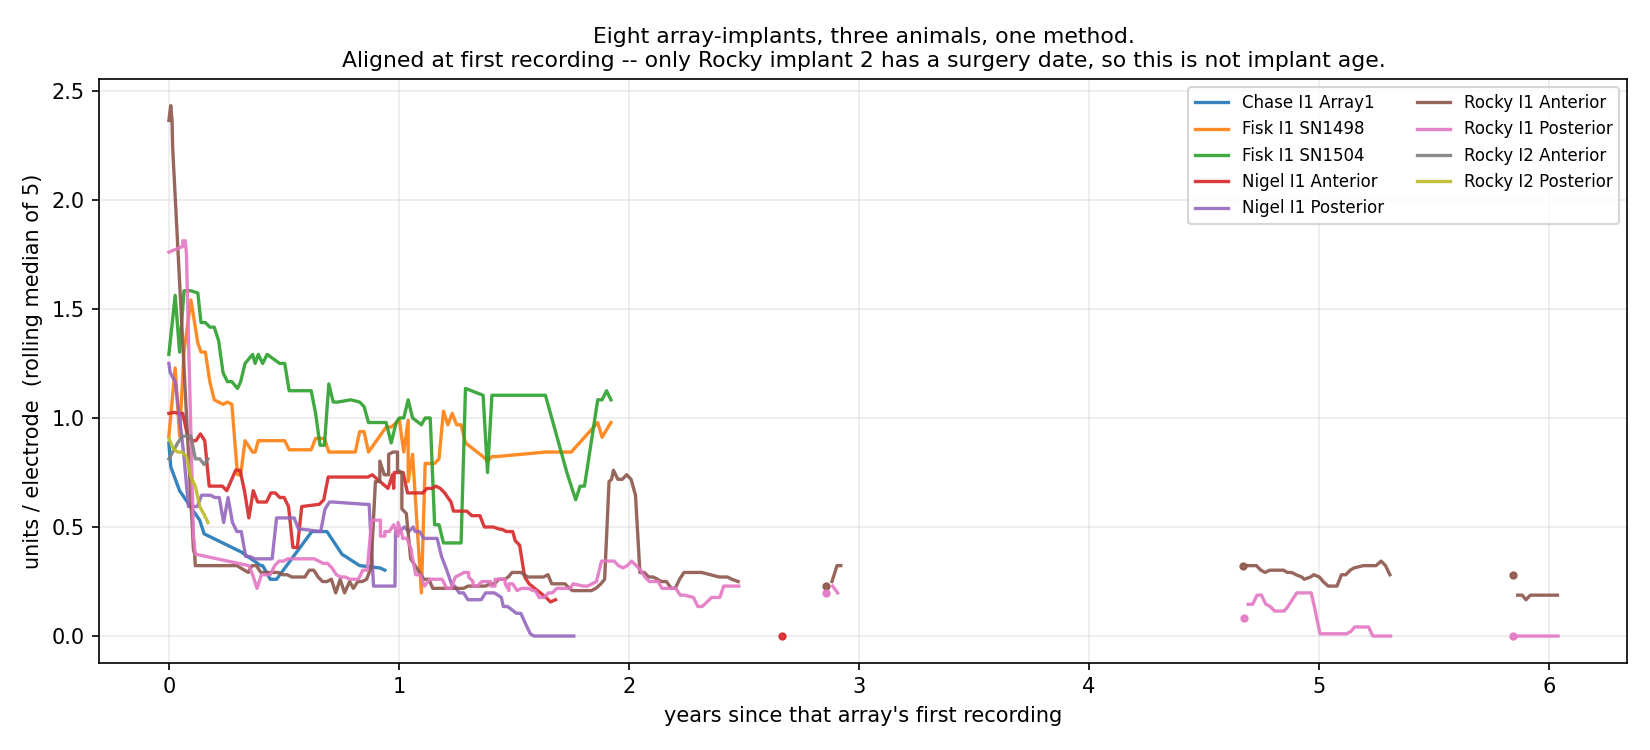
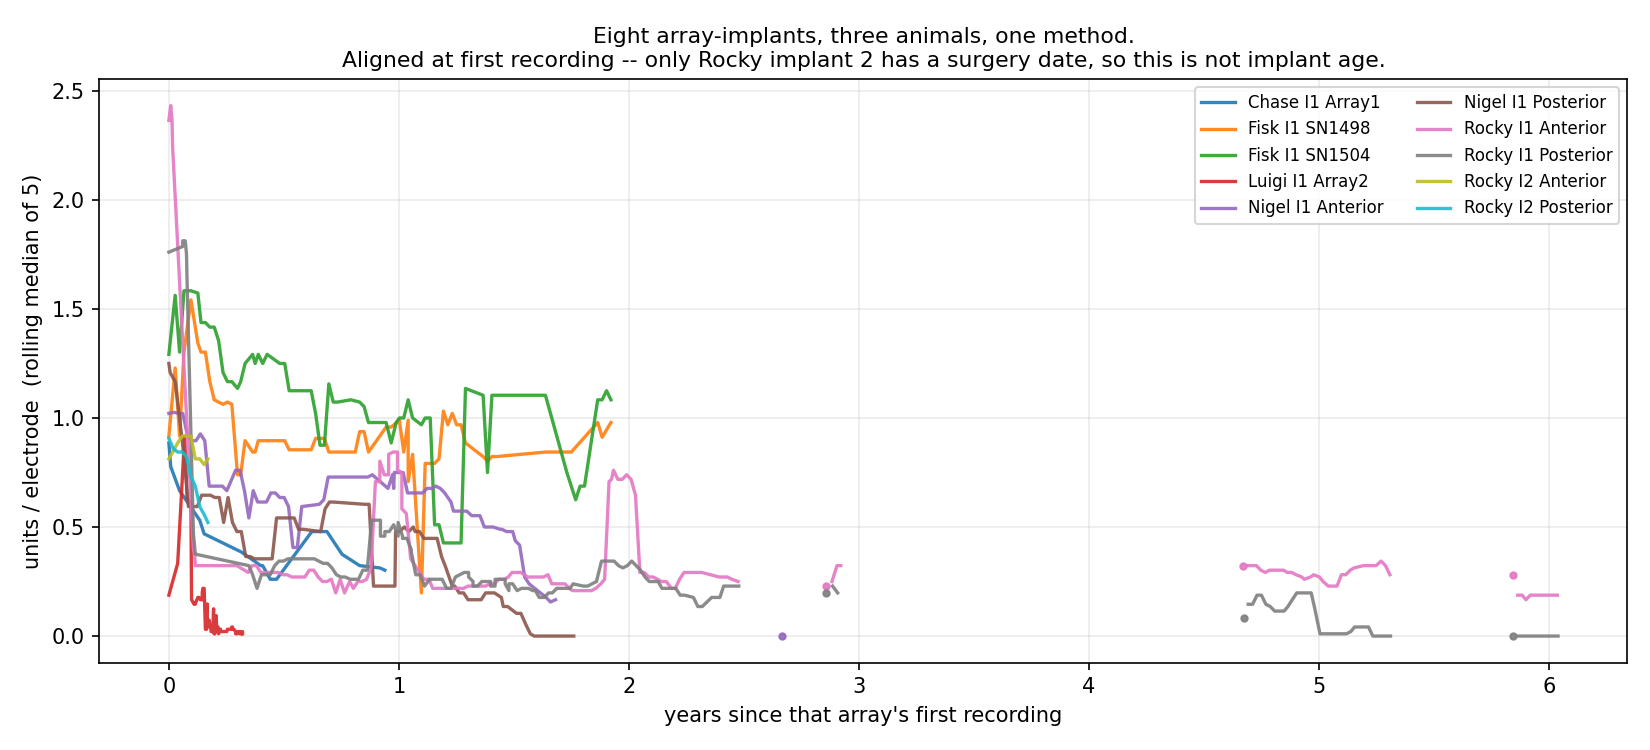
Luigi lands in the cohort with a real yield series, and a gain step in it
Cohort reaches 1143 recordings, 15 array-implants, 7 subjects. 26 figures.
Chase survived the merge, which is what the partial-merge fix was for.

Luigi is not the thin subject Oops and Picasso are. Array2 carries 150 sorted
sessions over four months -- the first TDT array in this project with a real
longitudinal yield series. My earlier note that Luigi had 6 sorted blocks came
from reading only offline_sort_status_luigi.parquet and missing the 144 Luigi
rows in the shared status file under dated sort names.

Its gate pass rate is 33.6% against Oops 11.1% and Picasso 15.7%, which is the
strongest evidence yet that those low rates are OpenSorter's two-units-per-
channel configuration rather than anything about TDT recordings.

Two caveats, both recorded rather than smoothed over. Luigi's arrays never
overlap in time -- Array2 is 2013, Array1 is 2015-16 -- and the registry's
implant window excludes the 2013 half; they share an implant label only because
splitting would assert a second implant nobody has confirmed. And January 2013
is a step, not a starting point: noise, amplitude and yield all shift together
between January and February (noise 7.96 -> 18.16, amplitude 36 -> 95), which
is a gain or filter change, not tissue. The screen misses it because it flags
noise above 2x the median and January runs below. Whole-series rho therefore
mixes a step with a trend; read Array2 from February, where yield falls 0.62 ->
0.01 units per electrode in three months.

diff --git a/docs/notes/cohort_extension.md b/docs/notes/cohort_extension.md
@@ -11,6 +11,62 @@ them. 23 figures, C1–C3 per subject plus the two shared panels.
 | Oops | 145 | 6 | 2015-06 → 2017-02 | noise floor; yield is 6 points |
 | Picasso | 106 | 4 | 2015-11 → 2017-04 | noise floor; yield is 4 points |
 
+## Luigi, added 2026-08-21
+
+Luigi entered once its sorting-free layer existed ([[tdt_corpus]]), and it is
+not the thin subject Oops and Picasso are:
+
+| array | rows | with a yield | span |
+|---|---|---|---|
+| Array2 | 150 | **150** | 2013-01-20 → 2013-05-17 |
+| Array1 | 31 | 0 | 2015-04-24 → 2016-08-30 |
+
+**Array2 is the first TDT array in this project with a real longitudinal yield
+series** — 150 sorted sessions over four months. An earlier reading of this
+note said Luigi had 6 sorted blocks; that came from looking only at
+`offline_sort_status_luigi.parquet` and missing the 144 Luigi rows sitting in
+the shared `offline_sort_status.parquet` under dated sort names.
+
+Its gate pass rate is **33.6%** against Oops's 11.1% and Picasso's 15.7%. That
+is the strongest evidence yet that the TDT subjects' low pass rates are a
+sorting *configuration* — OpenSorter assigning exactly two units to almost
+every channel — rather than a property of TDT recordings.
+
+### Two things make Luigi's series awkward, and neither is a bug
+
+**The two arrays never overlap in time.** Array2 is 2013 and Array1 is
+2015–16, with nothing in between; Oops and Picasso record both arrays
+simultaneously. The subject registry's implant window (2015-05-05 →
+2016-01-14) excludes the 2013 half entirely. They are carried under one implant
+label because splitting them would assert a second implant nobody has
+confirmed — **open question for the owner**. If 2013 is a different implant,
+these two must not share an implant-age axis.
+
+**January 2013 is a step, not a starting point.** Monthly medians on Array2:
+
+| month | noise µV | amp µV | units/electrode |
+|---|---|---|---|
+| 2013-01 | **7.96** | **36.3** | 0.19 |
+| 2013-02 | 18.16 | 94.6 | **0.62** |
+| 2013-03 | 14.07 | 96.4 | 0.12 |
+| 2013-04 | 13.03 | 66.0 | 0.02 |
+| 2013-05 | 12.25 | 51.4 | 0.01 |
+
+Noise, amplitude and yield all shift together between January and February —
+noise less than half, amplitude a third. Metrics moving together by a common
+factor is the signature of a **gain or filter change**, the same reasoning that
+identified two acquisition regimes in [[equipment_comparison]]. Tissue does not
+do that.
+
+The acquisition screen does not catch it, because it flags sessions whose noise
+runs *above* 2× the array median and January runs below.
+
+So the whole-series rho mixes a step with a trend and disagrees in sign with
+the endpoints on noise, amplitude and SNR — exactly the trap
+[[cohort_longitudinal]] records for Rocky I1 Anterior. **Read Luigi Array2 from
+February onward**, where the decline is real and severe: yield falls from 0.62
+to 0.01 units per electrode, roughly 60-fold in three months.
+
 ## The gate had to be recomputed, not reused
 
 `chase_units.parquet` and `tdt/offline_sort_units.parquet` both carry a

diff --git a/docs/notes/cohort_longitudinal.md b/docs/notes/cohort_longitudinal.md
@@ -1,8 +1,8 @@
 # Cross-subject longitudinal metrics, and the headstage control
 
 S10 and S12. `scratch_cohort_longitudinal.py` and `scratch_headstage_pairs.py`
-→ `data/derived/cohort/`. **962 recordings, 13 array-implants, 6 subjects,
-2009-03 → 2025-09**, of which 721 carry a unit yield.
+→ `data/derived/cohort/`. **1143 recordings, 15 array-implants, 7 subjects,
+2009-03 → 2025-09**, of which 871 carry a unit yield.
 
 The original file was 693 recordings across the three Blackrock subjects.
 `scratch_cohort_extend.py` added Chase, Oops and Picasso — see
